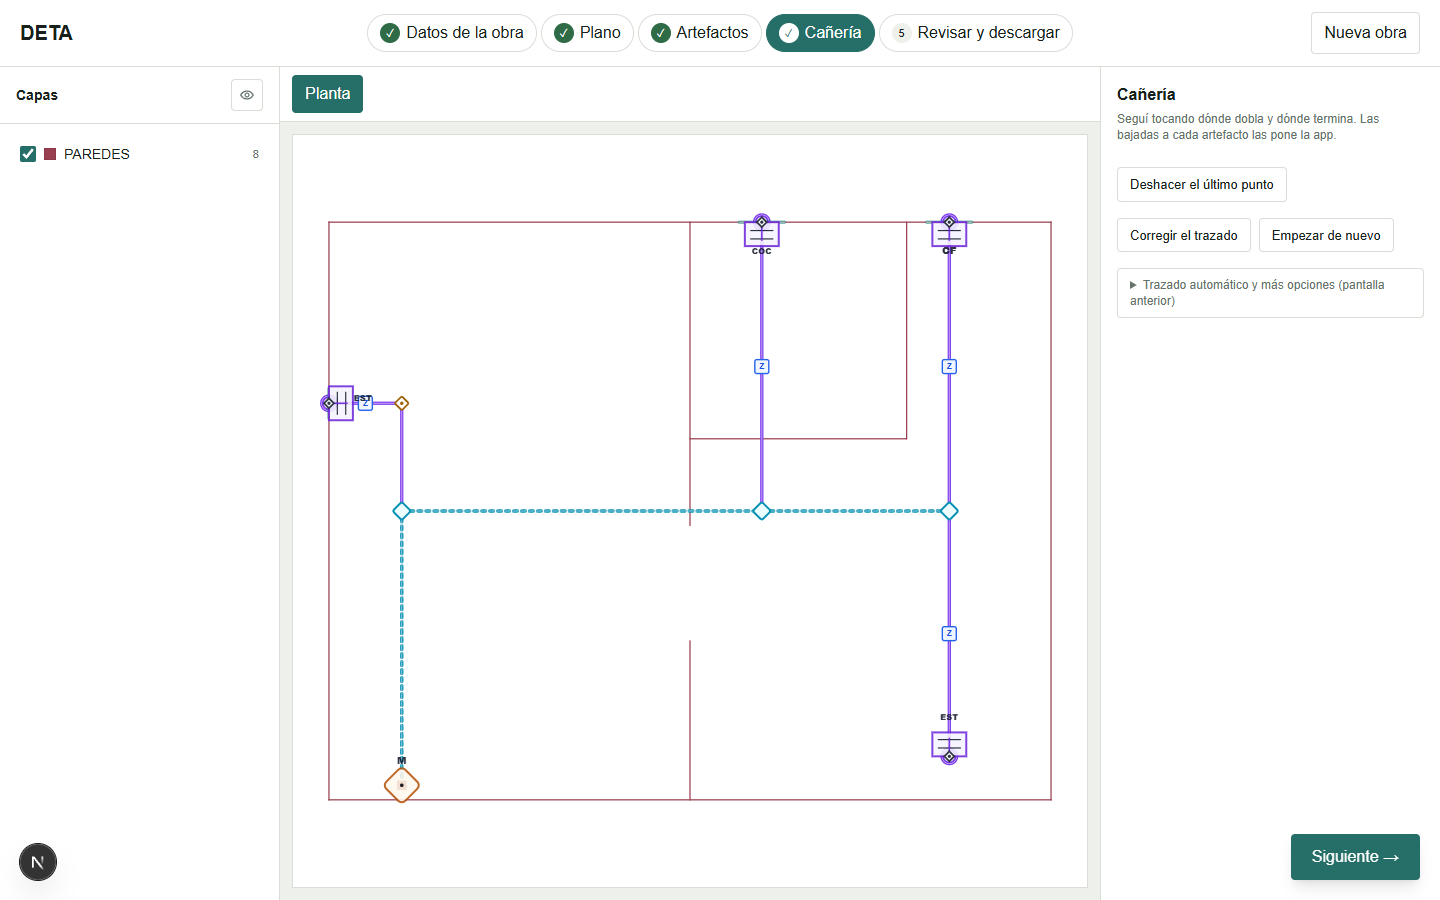
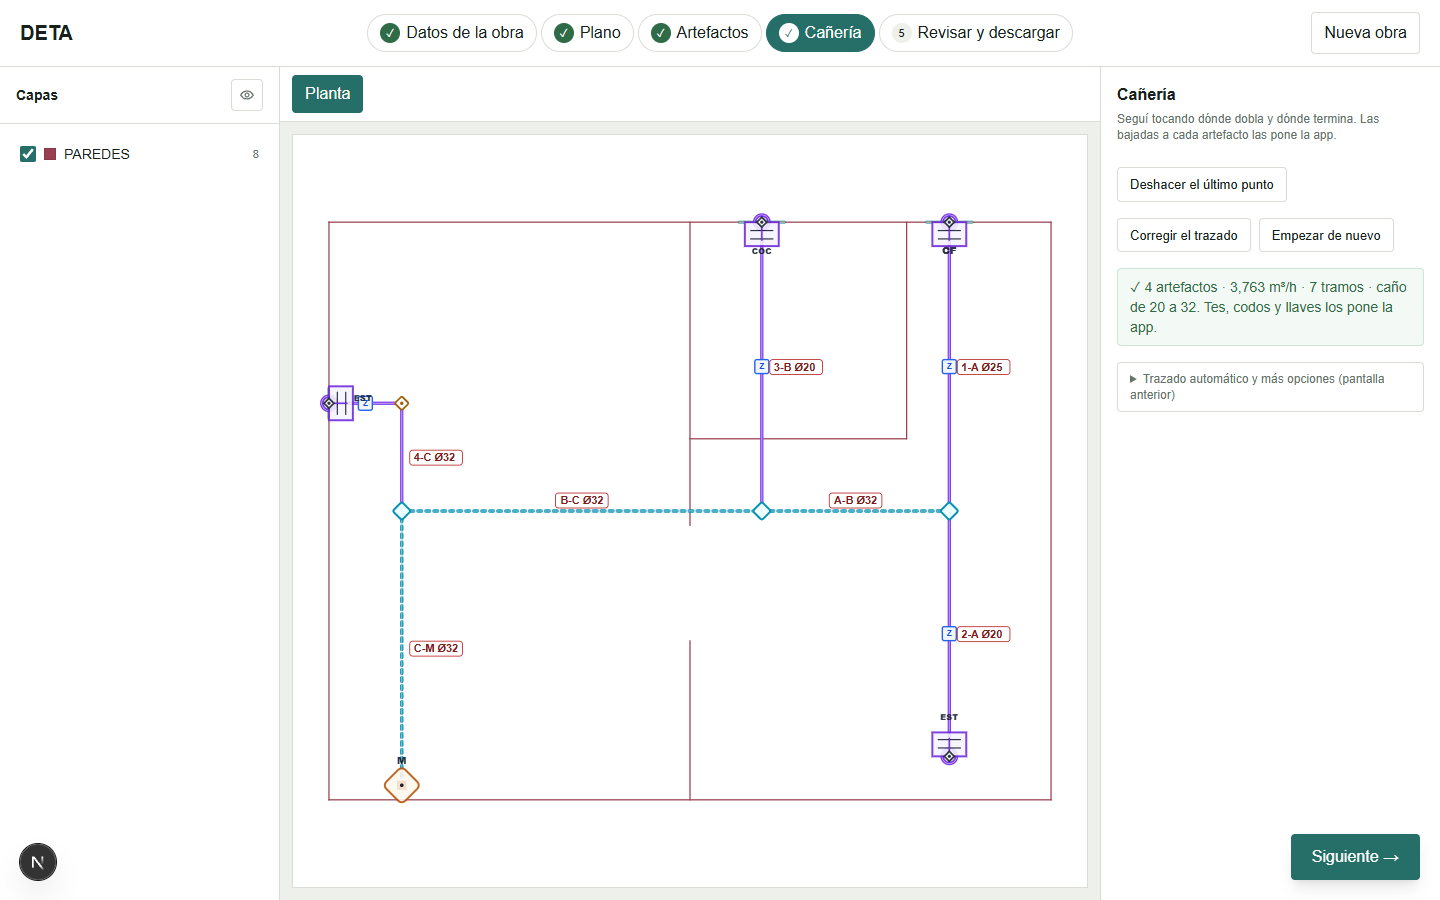
Show each tramo with its name and adopted diameter on the plan
While in Cañería every tramo shows "C-M Ø32" over the plan, read from the
same Cálculo cañería SIGAS table that goes on the A3, and the panel sums up
artefactos, consumption, tramos and pipe sizes.

diff --git a/src/components/dxf-workbench/DxfWorkbench.tsx b/src/components/dxf-workbench/DxfWorkbench.tsx
@@ -332,6 +332,9 @@ import { PasoCaneria } from "@/components/caneria/PasoCaneria";
 import { usePasoCaneria } from "@/components/caneria/usePasoCaneria";
 import { CorreccionCaneria } from "@/components/caneria/CorreccionCaneria";
 import { useCorreccionCaneria } from "@/components/caneria/useCorreccionCaneria";
+import { medidasDeTramos } from "@/lib/caneria/medidasDeTramos";
+import { armarResultadosObra } from "@/lib/workbench/calculoObra";
+import { prepararHojas, resumenObra } from "@/lib/revisar/hojas";
 import { estadoDeEscalaInicial } from "@/components/plano/escalaInicial";
 import { SubirPlano } from "@/components/plano/SubirPlano";
 import {
@@ -1953,6 +1956,43 @@ export function DxfWorkbench() {
     guardar: pasoCaneria.guardar,
   });
   const corrigiendoCaneria = pasoCaneria.corrigiendo;
+  // Nombre y diámetro de cada tramo sobre el plano, con el mismo cálculo que las hojas.
+  const medidasEnElPlano = useMemo(() => {
+    if (activeWorkflowStage !== "route" || pasoCaneria.ajena || !technicalCalculationResult) return undefined;
+    const resultados = armarResultadosObra({
+      accessoryProposals: routeAccessoryProposals,
+      adoptedDiameterDecisions: planBase?.adoptedDiameterDecisions ?? [],
+      diameterTransitionProposals,
+      equipment: planEquipment,
+      network: routeNetwork,
+      result: technicalCalculationResult,
+      routeTransitionResolutions,
+      scaleMetersPerSourceUnit: planScaleMetersPerSourceUnit,
+    });
+    const { tablas } = prepararHojas({
+      equipment: planEquipment,
+      network: routeNetwork,
+      result: technicalCalculationResult,
+      resultados,
+      routeTransitionResolutions,
+    });
+    return { etiquetas: medidasDeTramos(tablas, technicalCalculationResult), resumen: resumenObra({
+      equipment: planEquipment,
+      filasCalculo: tablas.calculo.filas,
+      filasReferencias: tablas.referencias.filas,
+    }) };
+  }, [
+    activeWorkflowStage,
+    diameterTransitionProposals,
+    pasoCaneria.ajena,
+    planBase?.adoptedDiameterDecisions,
+    planEquipment,
+    planScaleMetersPerSourceUnit,
+    routeAccessoryProposals,
+    routeNetwork,
+    routeTransitionResolutions,
+    technicalCalculationResult,
+  ]);
   // Un toque en el plano: ubica un artefacto o marca el caño principal, según el paso.
   const tocarPlanoDelPaso = pasoCaneria.marcando
     ? pasoCaneria.tocarPlano
@@ -7895,6 +7935,7 @@ export function DxfWorkbench() {
                 routeIntentConnections={activeRouteIntentConnections}
                 routeIntentDraft={activeRouteIntentDraftOverlay}
                 routeNetwork={activeRouteNetwork}
+                routeSegmentLabels={medidasEnElPlano?.etiquetas}
                 routeProposal={visibleRouteProposalOverlay}
                 routeProposalOutdated={isRouteProposalOutdated}
                 routeToolMode={routeToolMode}
@@ -7987,6 +8028,7 @@ export function DxfWorkbench() {
                 routeIntentConnections={activeRouteIntentConnections}
                 routeIntentDraft={activeRouteIntentDraftOverlay}
                 routeNetwork={activeRouteNetwork}
+                routeSegmentLabels={medidasEnElPlano?.etiquetas}
                 routeProposal={visibleRouteProposalOverlay}
                 routeProposalOutdated={isRouteProposalOutdated}
                 routeToolMode={routeToolMode}
@@ -8089,6 +8131,13 @@ export function DxfWorkbench() {
               hayMedidor={supplyCount === 1}
               masOpciones={rightPanelSections.find((section) => section.id === "route")?.content}
               puntos={pasoCaneria.puntos.length}
+              resumen={
+                medidasEnElPlano && pasoCaneria.avisos.length === 0 ? (
+                  <p className="rounded border border-[#cfe3d6] bg-[#f3faf5] px-3 py-2 text-[#2f6b46]">
+                    ✓ {medidasEnElPlano.resumen}. Tes, codos y llaves los pone la app.
+                  </p>
+                ) : undefined
+              }
               onCorregir={pasoCaneria.corregir}
               onDeshacer={pasoCaneria.deshacer}
               onEmpezarDeNuevo={() => {

diff --git a/src/components/caneria/EtiquetasDeTramos.tsx b/src/components/caneria/EtiquetasDeTramos.tsx
@@ -1,0 +1,58 @@
+import type { Point2D } from "@/lib/geometry/types";
+import type { ResolvedRouteSegment } from "@/lib/routing/types";
+
+/**
+ * El nombre y el diámetro de cada tramo sobre el plano ("C-M Ø32"), en la mitad de su parte
+ * más larga, con fondo blanco para que se lea sobre las paredes.
+ */
+export function EtiquetasDeTramos(props: {
+  etiquetas: ReadonlyMap<string, string>;
+  segments: ResolvedRouteSegment[];
+  sourceToScreen: (point: Point2D) => Point2D;
+}) {
+  return (
+    <g data-etiquetas-de-tramos="true" pointerEvents="none">
+      {props.segments.map((tramo) => {
+        const texto = props.etiquetas.get(tramo.id);
+        if (!texto || tramo.path.length < 2) return null;
+        const pantalla = tramo.path.map(props.sourceToScreen);
+        let mejor = { a: pantalla[0], b: pantalla[1], largo: -1 };
+        for (let i = 1; i < pantalla.length; i += 1) {
+          const largo = Math.hypot(pantalla[i].x - pantalla[i - 1].x, pantalla[i].y - pantalla[i - 1].y);
+          if (largo > mejor.largo) mejor = { a: pantalla[i - 1], b: pantalla[i], largo };
+        }
+        if (mejor.largo < 24) return null;
+        const vertical = Math.abs(mejor.b.y - mejor.a.y) > Math.abs(mejor.b.x - mejor.a.x);
+        const x = (mejor.a.x + mejor.b.x) / 2 + (vertical ? 8 : 0);
+        const y = (mejor.a.y + mejor.b.y) / 2 + (vertical ? 4 : -7);
+        const ancho = texto.length * 6.4 + 8;
+
+        return (
+          <g key={tramo.id}>
+            <rect
+              fill="#ffffff"
+              fillOpacity="0.9"
+              height="15"
+              rx="3"
+              stroke="#b91c1c"
+              strokeWidth="0.8"
+              width={ancho}
+              x={vertical ? x : x - ancho / 2}
+              y={y - 11}
+            />
+            <text
+              fill="#7f1d1d"
+              fontSize="11"
+              fontWeight="600"
+              textAnchor={vertical ? "start" : "middle"}
+              x={vertical ? x + 4 : x}
+              y={y}
+            >
+              {texto}
+            </text>
+          </g>
+        );
+      })}
+    </g>
+  );
+}

diff --git a/src/lib/caneria/canoPrincipalVerification.ts b/src/lib/caneria/canoPrincipalVerification.ts
@@ -3,6 +3,7 @@ import type { Point2D } from "@/lib/geometry/types";
 import { resolveRouteSegments, getConnectedApplianceEquipmentIds } from "@/lib/routing/network";
 import { ARTEFACTOS_CASA, ESCALA_CASA_M_POR_UNIDAD } from "@/lib/workbench/obraCasaDesdeCero";
 import { calcularObraDePrueba } from "@/lib/workbench/obrasDePrueba";
+import { medidasDeTramos } from "./medidasDeTramos";
 import { armarRed, enEscuadra, leerTraza, limpiarPuntos, TRAZA_VACIA, type TrazaCanoPrincipal } from "./canoPrincipal";
 
 type Resultado = { name: string; status: "passed" };
@@ -72,6 +73,23 @@ export function runCanoPrincipalVerifications() {
       tablas.materiales.filas.filter((f) => f[0] === material).reduce((total, f) => total + Number(f[2]), 0);
     igual(cantidad("TE"), 3);
     igual(cantidad("LLAVE DE PASO"), 5);
+  });
+
+  verify("cada tramo muestra en el plano su nombre y el diámetro adoptado de la tabla SIGAS", () => {
+    const { network } = armar(TRAZA_CASA);
+    const { result, tablas } = calcularObraDePrueba({
+      adoptedDiameterDecisions: [],
+      equipment: ARTEFACTOS_CASA,
+      network,
+      nombre: "casa desde cero",
+      scaleMetersPerSourceUnit: ESCALA_CASA_M_POR_UNIDAD,
+    });
+    const etiquetas = medidasDeTramos(tablas, result);
+    igual(etiquetas.size, network.segments.length);
+    const delMedidor = network.segments.find((s) => s.fromNodeId === "cp:m")!.id;
+    const fila = tablas.calculo.filas.find((f) => f[0] === "C-M")!;
+    igual(etiquetas.get(delMedidor), `C-M Ø${fila.at(-1)}`);
+    igual(medidasDeTramos(tablas, null).size, 0);
   });
 
   verify("lo marcado se vuelve a leer de la red guardada", () => {

diff --git a/src/components/dxf-workbench/RouteOverlay.tsx b/src/components/dxf-workbench/RouteOverlay.tsx
@@ -1,4 +1,5 @@
 import { useMemo, useState } from "react";
+import { EtiquetasDeTramos } from "@/components/caneria/EtiquetasDeTramos";
 import type { Point2D } from "@/lib/geometry/types";
 import { pointZMeters } from "@/lib/geometry/height";
 import type { WorkbenchEquipment } from "@/lib/equipment/types";
@@ -35,6 +36,8 @@ type RouteOverlayProps = {
   intentConnections: RouteIntentConnection[];
   intentDraft: RouteIntentDraft | null;
   network: ManualRouteNetwork;
+  /** Nombre y diámetro de cada tramo ("C-M Ø32"), para el paso Cañería. */
+  segmentLabels?: ReadonlyMap<string, string>;
   proposal: AutomaticRouteProposal | null;
   proposalOutdated: boolean;
   routeEditTolerance: number;
@@ -65,6 +68,7 @@ type RouteDragState = {
 type RouteSegmentVisualRole = "derivation" | "pass" | "terminal" | "vertical";
 
 export function RouteOverlay({
+  segmentLabels,
   draft,
   equipment,
   highlightedSegmentIds,
@@ -306,6 +310,9 @@ export function RouteOverlay({
             ) : null;
           })
         : null}
+      {showRoute && segmentLabels ? (
+        <EtiquetasDeTramos etiquetas={segmentLabels} segments={resolvedSegments} sourceToScreen={sourceToScreen} />
+      ) : null}
       {showRoute ? (
         <RouteIntentLayer
           connections={intentConnections}

diff --git a/src/lib/caneria/medidasDeTramos.ts b/src/lib/caneria/medidasDeTramos.ts
@@ -1,0 +1,21 @@
+import type { TechnicalCalculationResult } from "@/lib/calculation/technicalTree";
+import type { TablasPlano } from "@/lib/laminas/tablasPlano";
+
+/*
+ * "C-M Ø32" por tramo, para mostrar en el plano del paso Cañería: el nombre del tramo y el
+ * diámetro adoptado, leídos de la misma tabla "Cálculo cañería SIGAS" que sale en el A3.
+ */
+export function medidasDeTramos(
+  tablas: Pick<TablasPlano, "calculo" | "numeracion">,
+  result: TechnicalCalculationResult | null,
+): Map<string, string> {
+  const etiquetas = new Map<string, string>();
+  if (!result || result.status !== "valid") return etiquetas;
+
+  const adoptado = new Map(tablas.calculo.filas.map((fila) => [fila[0], fila.at(-1) ?? ""]));
+  for (const [segmentId, nombre] of tablas.numeracion.tramos) {
+    const diametro = adoptado.get(nombre);
+    etiquetas.set(segmentId, diametro && /^\d+$/.test(diametro) ? `${nombre} Ø${diametro}` : nombre);
+  }
+  return etiquetas;
+}

diff --git a/src/components/dxf-workbench/PdfViewer.tsx b/src/components/dxf-workbench/PdfViewer.tsx
@@ -81,6 +81,7 @@ type PdfViewerProps = {
   routeIntentConnections: RouteIntentConnection[];
   routeIntentDraft: RouteIntentDraft | null;
   routeNetwork: ManualRouteNetwork;
+  routeSegmentLabels?: ReadonlyMap<string, string>;
   routeToolMode: RouteToolMode;
   savedView: PdfViewTransform | null;
   selectedEquipmentId: string | null;
@@ -203,6 +204,7 @@ export function PdfViewer({
   routeIntentConnections,
   routeIntentDraft,
   routeNetwork,
+  routeSegmentLabels,
   routeToolMode,
   savedView,
   selectedEquipmentId,
@@ -894,6 +896,7 @@ export function PdfViewer({
                 intentConnections={routeIntentConnections}
                 intentDraft={routeIntentDraft}
                 network={routeNetwork}
+                segmentLabels={routeSegmentLabels}
                 proposal={routeProposal}
                 proposalOutdated={routeProposalOutdated}
                 routeEditTolerance={ROUTE_POINTER_TOLERANCE_PX / view.scale}

diff --git a/src/components/dxf-workbench/DxfViewer.tsx b/src/components/dxf-workbench/DxfViewer.tsx
@@ -100,6 +100,7 @@ type DxfViewerProps = {
   routeIntentConnections: RouteIntentConnection[];
   routeIntentDraft: RouteIntentDraft | null;
   routeNetwork: ManualRouteNetwork;
+  routeSegmentLabels?: ReadonlyMap<string, string>;
   routeToolMode: RouteToolMode;
   savedView: ViewTransform | null;
   selectedEquipmentId: string | null;
@@ -244,6 +245,7 @@ export function DxfViewer({
   routeIntentConnections,
   routeIntentDraft,
   routeNetwork,
+  routeSegmentLabels,
   routeToolMode,
   savedView,
   selectedEquipmentId,
@@ -975,6 +977,7 @@ export function DxfViewer({
               intentConnections={routeIntentConnections}
               intentDraft={routeIntentDraft}
               network={routeNetwork}
+                segmentLabels={routeSegmentLabels}
               proposal={routeProposal}
               proposalOutdated={routeProposalOutdated}
               routeEditTolerance={ROUTE_POINTER_TOLERANCE_PX / view.scale}
